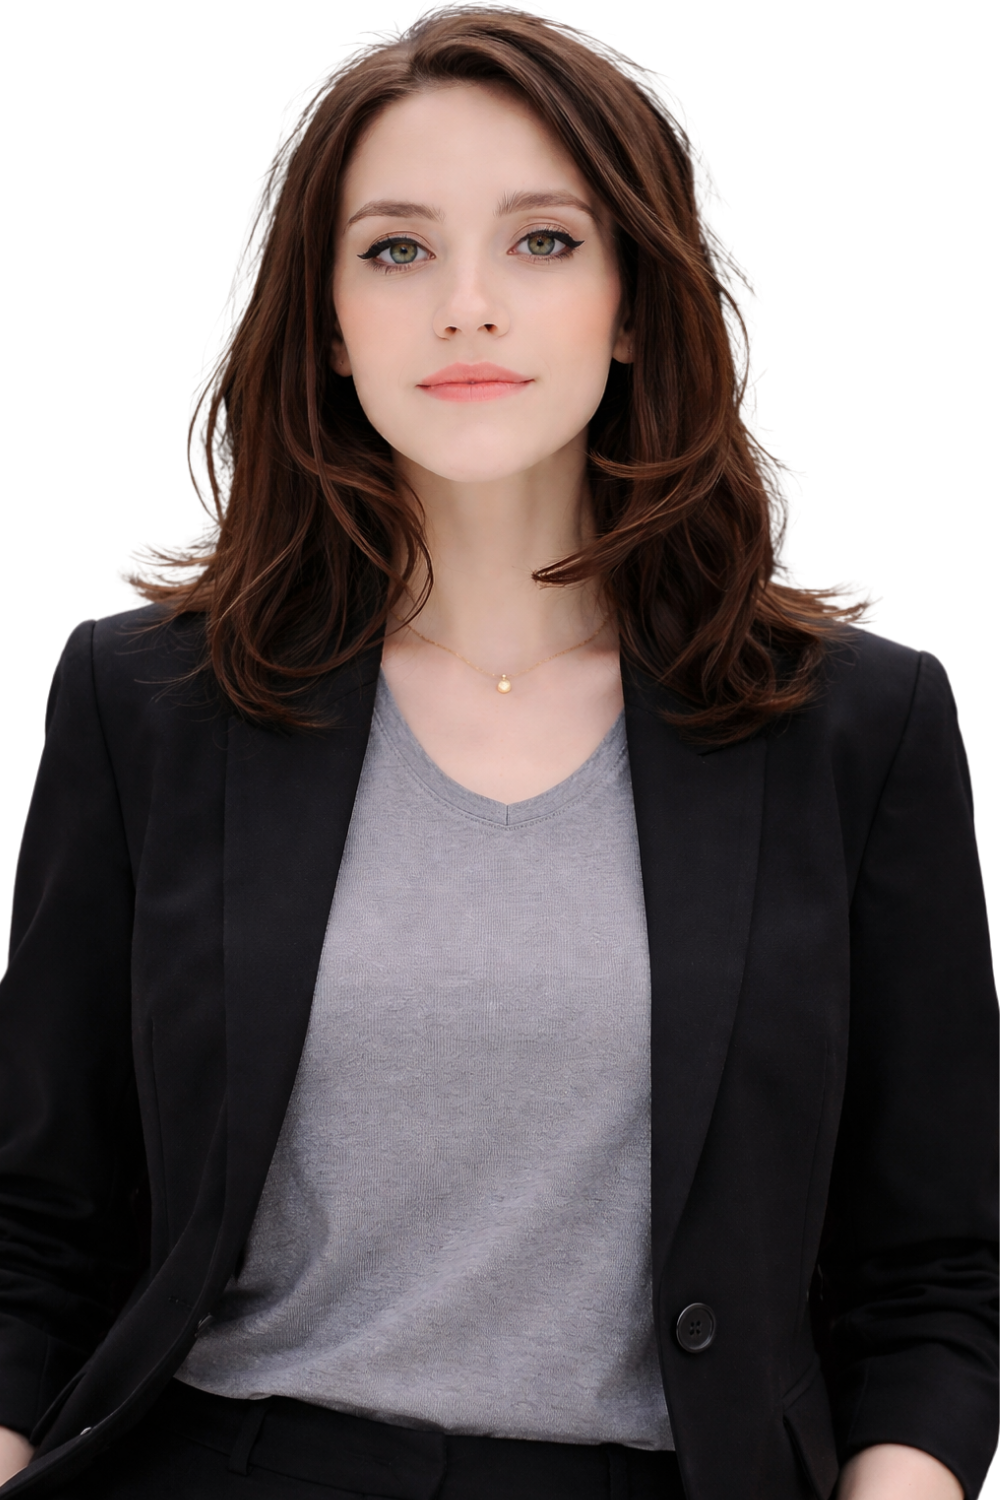
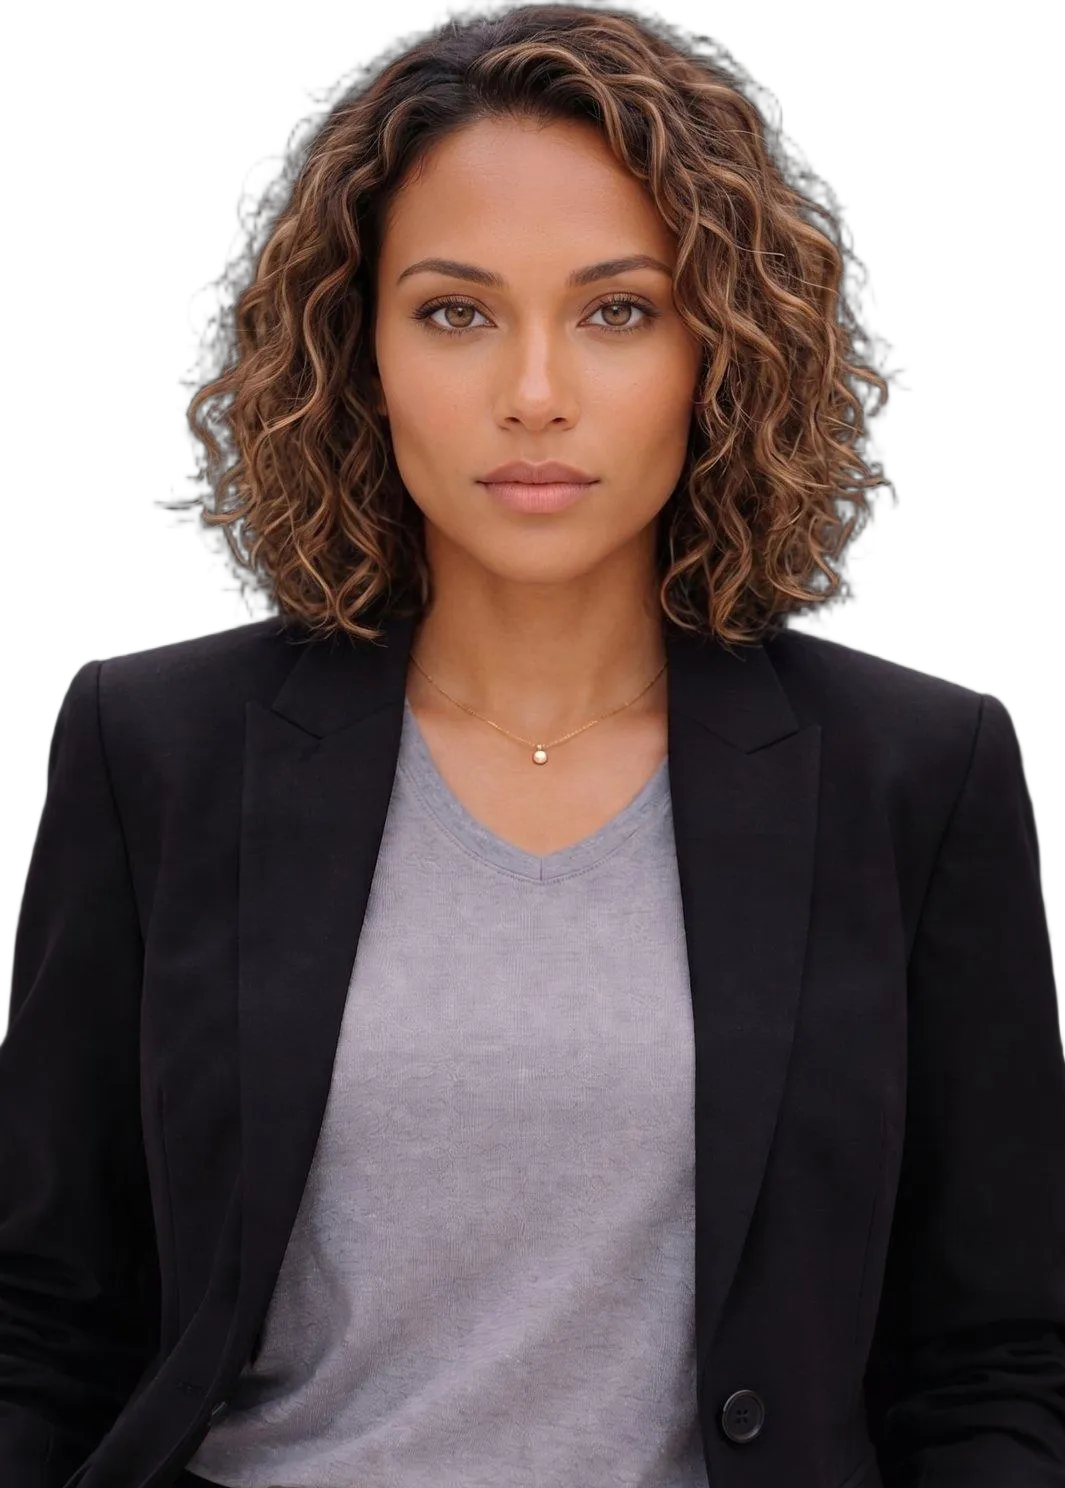
Fix: Update components and hero section

diff --git a/src/pages/components/Model.jsx b/src/pages/components/Model.jsx
@@ -1,60 +1,4 @@
 import React, { useEffect, useRef, useState } from 'react';
-// IMPORTANTE: Importamos la librería que acabamos de instalar
-import Tilt from 'react-parallax-tilt';
-
-// --- SUB-COMPONENTE: Fila de Especificación ---
-const SpecRow = ({ label, value, delay, icon }) => {
-  const [isVisible, setIsVisible] = useState(false);
-  const rowRef = useRef(null);
-
-  useEffect(() => {
-    const observer = new IntersectionObserver(
-      ([entry]) => {
-        if (entry.isIntersecting) {
-          setIsVisible(true);
-          observer.disconnect();
-        }
-      },
-      { threshold: 0.1, rootMargin: '50px' }
-    );
-    if (rowRef.current) observer.observe(rowRef.current);
-    return () => observer.disconnect();
-  }, []);
-
-  return (
-    <div
-      ref={rowRef}
-      className={`group relative flex flex-col md:flex-row md:items-center justify-between p-6 md:p-8 border-b border-white/10 transition-all duration-700 ease-out will-change-transform
-        ${isVisible ? 'translate-y-0 opacity-100' : 'translate-y-12 opacity-0'}
-        hover:bg-white/[0.02] overflow-hidden
-      `}
-      style={{ transitionDelay: `${delay}ms` }}
-    >
-      {/* Resplandor sutil de fondo en Hover */}
-      <div className="absolute inset-0 bg-gradient-to-r from-[#a100ff]/0 via-[#a100ff]/5 to-[#437ceb]/0 opacity-0 group-hover:opacity-100 transition-opacity duration-500 pointer-events-none"></div>
-      
-      {/* Línea láser inferior en Hover */}
-      <div className="absolute bottom-0 left-0 w-0 h-[1px] bg-gradient-to-r from-[#a100ff] to-[#437ceb] group-hover:w-full transition-all duration-700 ease-out"></div>
-
-      {/* Etiqueta (Característica) */}
-      <div className="flex items-center gap-4 mb-2 md:mb-0 relative z-10 w-full md:w-1/3">
-        <div className="w-10 h-10 rounded-full bg-white/5 border border-white/10 flex items-center justify-center text-gray-400 group-hover:text-[#a100ff] group-hover:border-[#a100ff]/30 group-hover:bg-[#a100ff]/10 transition-all duration-500">
-          {icon}
-        </div>
-        <span className="font-gilroy text-lg font-medium text-gray-400 group-hover:text-gray-200 transition-colors">
-          {label}
-        </span>
-      </div>
-
-      {/* Valor (DOMA) */}
-      <div className="relative z-10 w-full md:w-2/3 md:text-right pl-14 md:pl-0">
-        <span className="font-poppins text-xl md:text-2xl font-semibold text-white group-hover:text-transparent group-hover:bg-clip-text group-hover:bg-gradient-to-r group-hover:from-white group-hover:to-gray-300 transition-all">
-          {value}
-        </span>
-      </div>
-    </div>
-  );
-};
 
 export default function Model() {
   const [isVisible, setIsVisible] = useState(false);
@@ -74,56 +18,18 @@ export default function Model() {
     return () => observer.disconnect();
   }, []);
 
-  const specs = [
-    {
-      label: "Costo mensual",
-      value: "Tarifa mensual fija, todo incluido",
-      icon: <svg className="w-5 h-5" fill="none" viewBox="0 0 24 24" stroke="currentColor"><path strokeLinecap="round" strokeLinejoin="round" strokeWidth="2" d="M12 8c-1.657 0-3 .895-3 2s1.343 2 3 2 3 .895 3 2-1.343 2-3 2m0-8c1.11 0 2.08.402 2.599 1M12 8V7m0 1v8m0 0v1m0-1c-1.11 0-2.08-.402-2.599-1M21 12a9 9 0 11-18 0 9 9 0 0118 0z" /></svg>
-    },
-    {
-      label: "Capacitación",
-      value: "$0 — QOPA lo sabe desde el día 1",
-      icon: <svg className="w-5 h-5" fill="none" viewBox="0 0 24 24" stroke="currentColor"><path strokeLinecap="round" strokeLinejoin="round" strokeWidth="2" d="M13 10V3L4 14h7v7l9-11h-7z" /></svg>
-    },
-    {
-      label: "Rotación",
-      value: "0% — nunca renuncia",
-      icon: <svg className="w-5 h-5" fill="none" viewBox="0 0 24 24" stroke="currentColor"><path strokeLinecap="round" strokeLinejoin="round" strokeWidth="2" d="M16 7a4 4 0 11-8 0 4 4 0 018 0zM12 14a7 7 0 00-7 7h14a7 7 0 00-7-7z" /></svg>
-    },
-    {
-      label: "Horario",
-      value: "24/7, 365 días",
-      icon: <svg className="w-5 h-5" fill="none" viewBox="0 0 24 24" stroke="currentColor"><path strokeLinecap="round" strokeLinejoin="round" strokeWidth="2" d="M12 8v4l3 3m6-3a9 9 0 11-18 0 9 9 0 0118 0z" /></svg>
-    },
-    {
-      label: "Consistencia",
-      value: "100% consistente en todos los puntos",
-      icon: <svg className="w-5 h-5" fill="none" viewBox="0 0 24 24" stroke="currentColor"><path strokeLinecap="round" strokeLinejoin="round" strokeWidth="2" d="M9 12l2 2 4-4m6 2a9 9 0 11-18 0 9 9 0 0118 0z" /></svg>
-    },
-    {
-      label: "Datos del cliente",
-      value: "Cada interacción es un dato medible",
-      icon: <svg className="w-5 h-5" fill="none" viewBox="0 0 24 24" stroke="currentColor"><path strokeLinecap="round" strokeLinejoin="round" strokeWidth="2" d="M9 19v-6a2 2 0 00-2-2H5a2 2 0 00-2 2v6a2 2 0 002 2h2a2 2 0 002-2zm0 0V9a2 2 0 012-2h2a2 2 0 012 2v10m-6 0a2 2 0 002 2h2a2 2 0 002-2m0 0V5a2 2 0 012-2h2a2 2 0 012 2v14a2 2 0 01-2 2h-2a2 2 0 01-2-2z" /></svg>
-    },
-    {
-      label: "Escalabilidad",
-      value: "Costo fijo sin importar cuántos puntos",
-      icon: <svg className="w-5 h-5" fill="none" viewBox="0 0 24 24" stroke="currentColor"><path strokeLinecap="round" strokeLinejoin="round" strokeWidth="2" d="M4 8V4m0 0h4M4 4l5 5m11-1V4m0 0h-4m4 0l-5 5M4 16v4m0 0h4m-4 0l5-5m11 5l-5-5m5 5v-4m0 4h-4" /></svg>
-    }
-  ];
-
   return (
-    <section id="modelo" className="relative py-32 px-6 bg-[#0a0a0f] overflow-hidden">
+    <section id="modelo" className="relative py-24 md:py-32 px-6 bg-[#0a0a0f] overflow-hidden">
       
       {/* Ambient Lights */}
-      <div className="absolute top-0 left-1/2 -translate-x-1/2 w-[800px] h-[400px] bg-[#437ceb]/10 rounded-full blur-[120px] pointer-events-none"></div>
+      <div className="absolute top-1/2 left-1/2 -translate-x-1/2 -translate-y-1/2 w-[600px] h-[300px] bg-[#a100ff]/10 rounded-full blur-[140px] pointer-events-none"></div>
 
-      <div className="max-w-5xl mx-auto relative z-10 cursor-crosshair">
+      <div className="max-w-4xl mx-auto relative z-10">
         
         {/* HEADER */}
         <div 
           ref={headerRef}
-          className={`text-center mb-20 transform transition-all duration-1000 ${isVisible ? 'translate-y-0 opacity-100' : 'translate-y-12 opacity-0'}`}
+          className={`text-center transform transition-all duration-1000 ${isVisible ? 'translate-y-0 opacity-100' : 'translate-y-12 opacity-0'}`}
         >
           <span className="px-4 py-1.5 rounded-full border border-white/10 bg-white/5 text-gray-300 text-sm font-gilroy font-bold uppercase tracking-widest mb-6 inline-block">
             El modelo
@@ -135,51 +41,10 @@ export default function Model() {
               Siempre consistente.
             </span>
           </h2>
-          <p className="font-gilroy text-xl text-gray-400 max-w-2xl mx-auto">
+          <p className="font-gilroy text-lg md:text-xl text-gray-400 max-w-2xl mx-auto">
             Un Digital Sales Executive que no descansa, no olvida y no improvisa.
           </p>
         </div>
-
-        {/* --- EFECTO TILT 3D APLICADO AQUÍ --- */}
-        <Tilt 
-          tiltMaxAngleX={2} // Inclinación sutil (no marea)
-          tiltMaxAngleY={2}
-          perspective={1000} // Profundidad
-          scale={1.01} // Crece apenas un 1% al pasar el mouse
-          transitionSpeed={2000} // Transición hiper suave
-          glareEnable={true} // Activa un brillo que sigue al ratón
-          glareMaxOpacity={0.05} // Brillo muy tenue
-          glareColor="#a100ff" // Brillo color marca
-          glarePosition="all"
-          className="w-full"
-        >
-          <div className="relative bg-[#0f0f15]/80 backdrop-blur-xl border border-white/10 rounded-[40px] shadow-[0_20px_50px_rgba(0,0,0,0.5)] overflow-hidden">
-            
-            {/* Fila de Encabezado (Sticky-like feel) */}
-            <div className="hidden md:flex justify-between px-8 py-6 border-b border-white/10 bg-white/[0.02]">
-              <div className="w-1/3">
-                <span className="font-gilroy font-bold text-xs uppercase tracking-widest text-gray-500">Característica</span>
-              </div>
-              <div className="w-2/3 text-right">
-                <span className="font-gilroy font-bold text-xs uppercase tracking-widest text-[#a100ff]">DOMA Digital Sales Executive</span>
-              </div>
-            </div>
-
-            {/* Filas de Datos */}
-            <div className="flex flex-col">
-              {specs.map((spec, idx) => (
-                <SpecRow 
-                  key={idx}
-                  label={spec.label}
-                  value={spec.value}
-                  icon={spec.icon}
-                  delay={idx * 100} // Cascada de animación
-                />
-              ))}
-            </div>
-
-          </div>
-        </Tilt>
 
       </div>
     </section>
